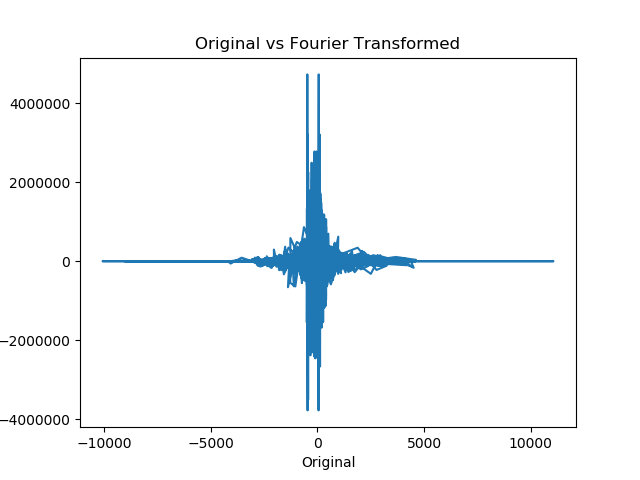
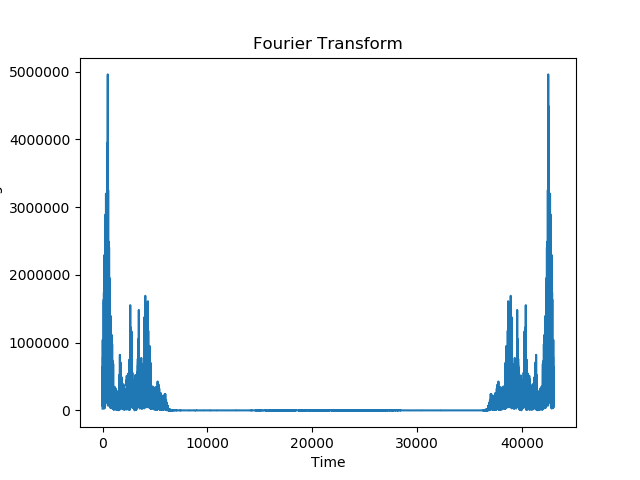
3b c d done

diff --git a/P8/code.py b/P8/code.py
@@ -36,11 +36,69 @@ def plot_time_vs_speaker(data, output_filename):
 
 #part c
 
-fourier_transformed_data = np.fft.fft(data)
+#fourier_transformed_data = np.fft.fft(data)
+# print("shape of transformed data: ", fourier_transformed_data.shape)
+# print(fourier_transformed_data[0])
+# x_axis = [x for x in range(fourier_transformed_data.shape[0])]
 
-plt.plot(data, fourier_transformed_data)
-plt.title("Original vs Fourier Transformed")
-plt.xlabel("Original")
-plt.ylabel("Fourier Transform Value")
-plt.savefig("3c" + ".png", fomrat = 'png')
-plt.close()
+# plt.plot(x_axis, np.absolute(fourier_transformed_data))
+# plt.title("Fourier Transform")
+# plt.xlabel("Time")
+# plt.ylabel("Fourier Transform Magnitude")
+# plt.savefig("3c" + ".png", fomrat = 'png')
+# plt.close()
+
+#part d
+
+def generate_heatmap(data, output_filename):
+	chunk_size = 500
+	num_fourier_coefficients = 80
+	number_chunks = data.shape[0] // chunk_size
+
+	fourier_coefficients_array = np.zeros((number_chunks, num_fourier_coefficients))
+	for i in range(number_chunks):
+		current_chunk = data[i * chunk_size : (i + 1) * chunk_size]
+		curr_fourier = np.fft.fft(current_chunk)
+		curr_fourier = np.absolute(curr_fourier)
+		fourier_coefficients_array[i, ] = curr_fourier[:80]
+
+	#fourier_coefficients_array = np.absolute(fourier_coefficients_array)
+	fourier_coefficients_array = np.sqrt(fourier_coefficients_array)
+	plt.imshow(fourier_coefficients_array, cmap = 'hot')
+	plt.xlabel("Chunk Index")
+	plt.ylabel("Magnitude Fourier Coefficients")
+	plt.title("Spectrogram")
+	plt.savefig(output_filename + '.png', format = 'png')
+	plt.close()
+
+#generate_heatmap(data, "2D_Square_Root")
+
+
+#part e
+def save_wav_file(data, threshold):
+	data = (data * 1.0 / np.max(np.absolute(data)) * 32767).astype(np.int16)
+	with open("output_threshold_low=" + str(threshold) + ".wav", "wb") as f:
+		wavfile.write(f, sampleRate, data)
+
+
+def zero_out_frequencies(data, threshold, high = True):
+
+	data = np.fft.fft(data)
+	if high == True: #zeroing out above threshold
+		data[data > threshold] = 0
+	else: #zero out below certain threshold
+		data[data < threshold] = 0
+	inverse_fourier = np.fft.ifft(data)
+	inverse_fourier = np.absolute(inverse_fourier)
+	save_wav_file(inverse_fourier, threshold)
+
+high_thresholds = [5, 10, 15, 20, 30, 100, 200]
+
+high_thresholds = [x for x in range(10000) if x % 100 == 0]
+
+
+for threshold in high_thresholds:
+	zero_out_frequencies(data, threshold, high = False)
+
+
+
